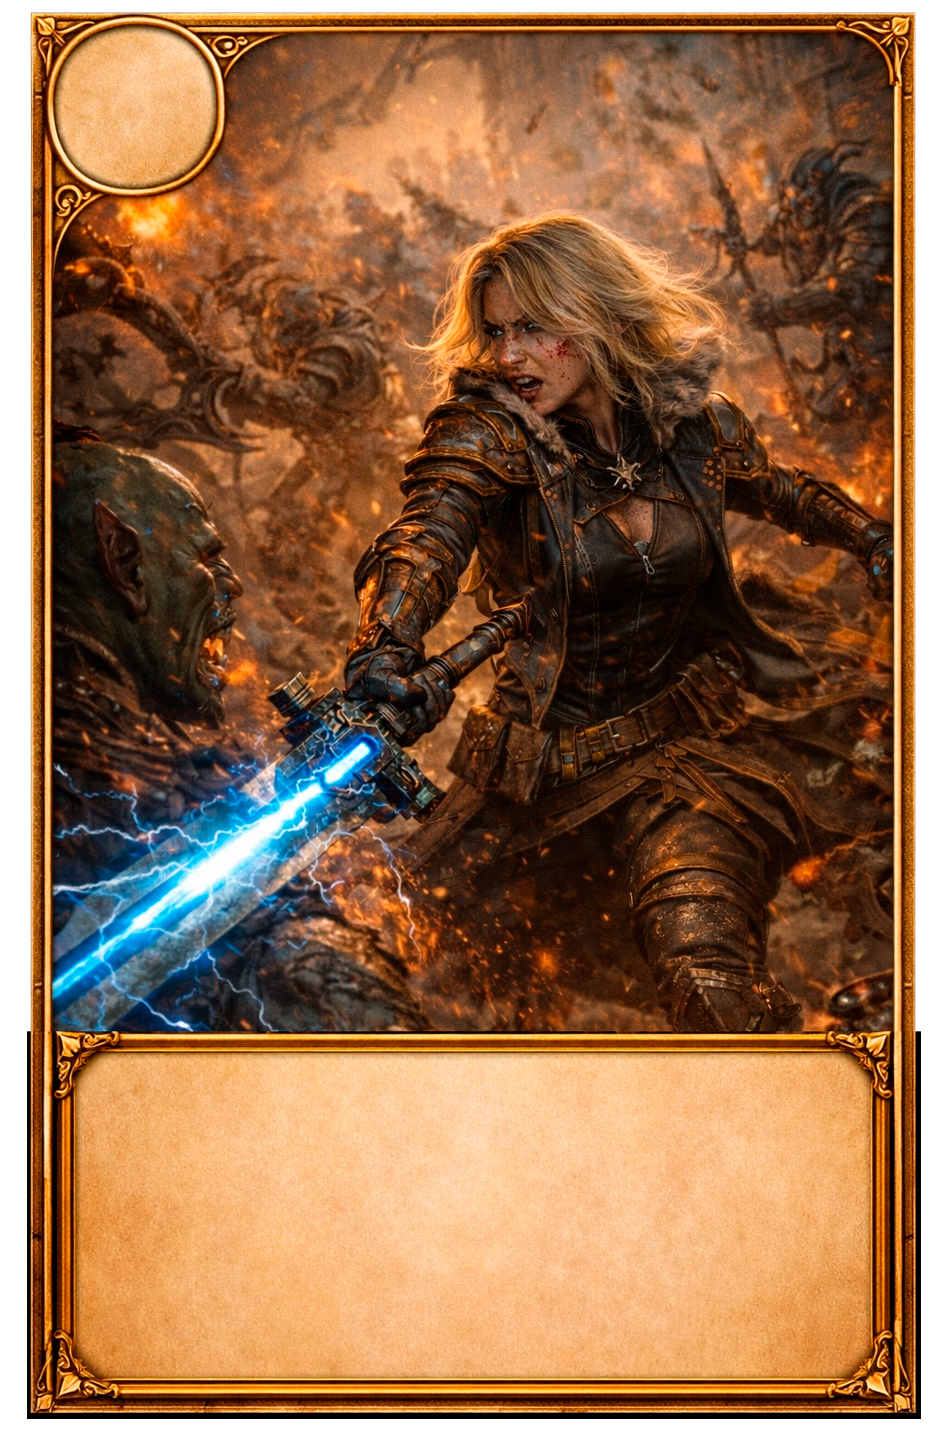
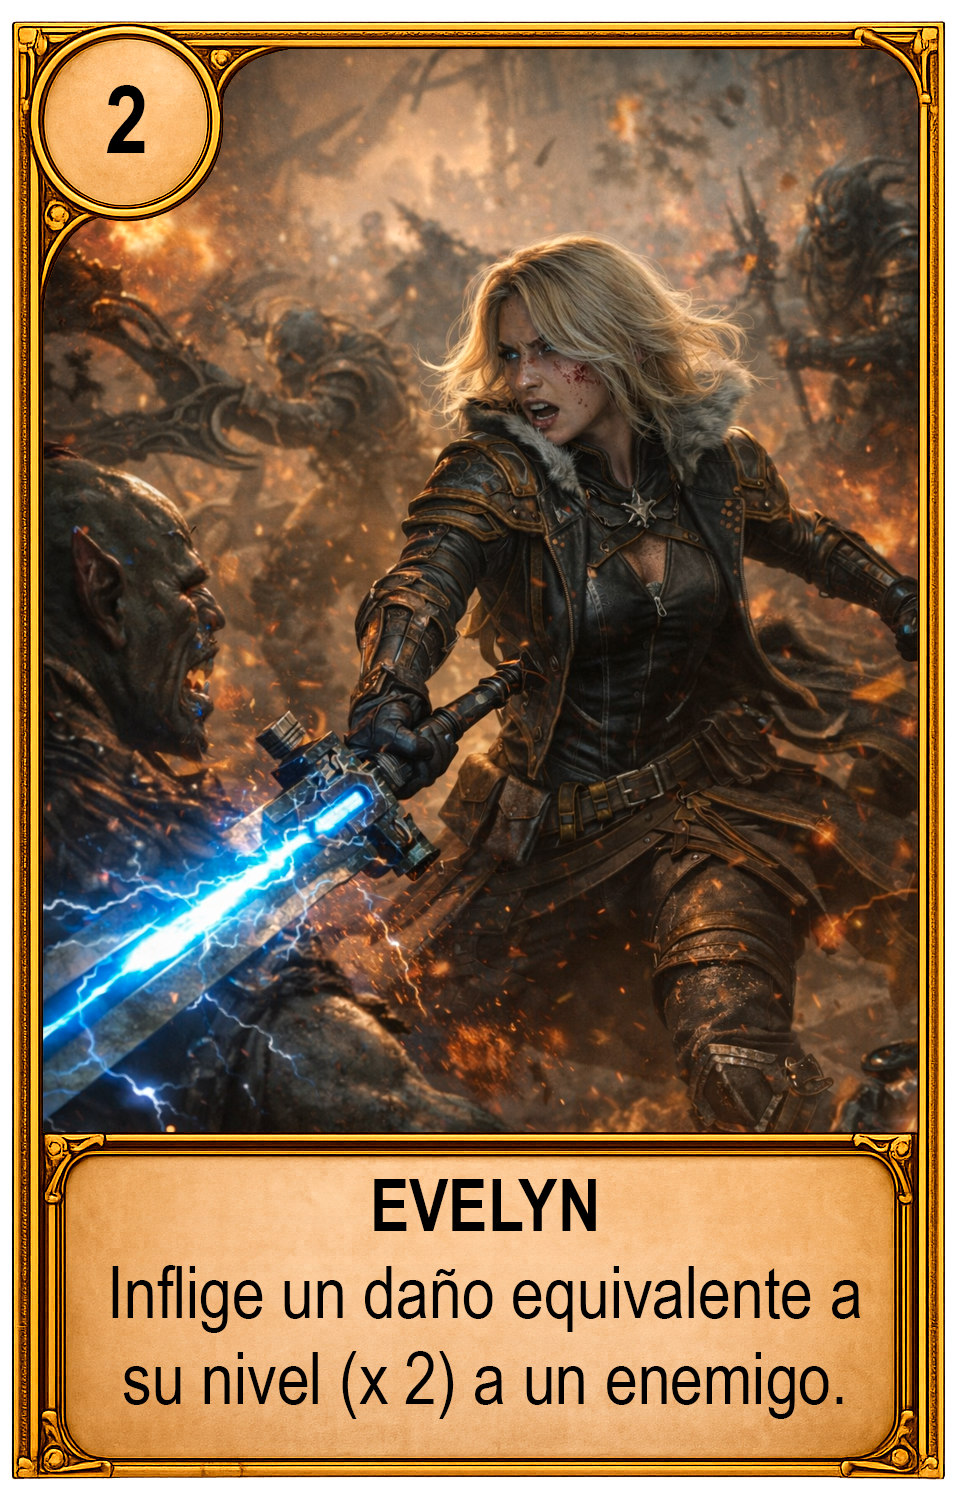
Ajusta habilidades sin objetivo y añade habilidad de Risko

diff --git a/script.js b/script.js
@@ -179,7 +179,7 @@ document.addEventListener("DOMContentLoaded", () => {
     { id: "ab_jane", name: "Jane", img: "cartas/cartajane.PNG", cost: 2, damage: 0, level: 1, abilityName: "Cubriendo la retaguardia", shieldGain: 5 },
     { id: "ab_lisa", name: "Lisa", img: "cartas/cartalisa.PNG", cost: 1, damage: 0, level: 1, abilityName: "Sanadora de batalla", healAmount: 15 },
     { id: "ab_pendergast", name: "Pendergast", img: "cartas/cartapendergast.PNG", cost: 1, damage: 5, level: 1, abilityName: "Orden ofensiva" },
-    { id: "ab_risko", name: "Risko", img: "cartas/cartarisko.PNG", cost: 1, damage: 5, level: 1, abilityName: "Impacto técnico" }
+    { id: "ab_risko", name: "Risko", img: "cartas/cartarisko.PNG", cost: 2, damage: 0, level: 1, abilityName: "Ráfaga de distracción", shieldGain: 5 }
   ];
 
   const REINER_BATTLE_CHARACTER = {
@@ -3875,6 +3875,11 @@ document.addEventListener("DOMContentLoaded", () => {
     return ARCADE_BATTLE_CARD_LIBRARY.find((card) => card.id === cardId) || null;
   }
 
+  function arcadeBattleCardNeedsEnemyTarget(cardDef) {
+    const id = String(cardDef?.id || "");
+    return !(id === "ab_camus" || id === "ab_winchester" || id === "ab_jane" || id === "ab_lisa");
+  }
+
   function createArcadeBattleEnemy(id, name) {
     return {
       id,
@@ -4324,14 +4329,15 @@ document.addEventListener("DOMContentLoaded", () => {
 
   function tryPlayArcadeBattleCardOnEnemy(cardInstanceId, enemyId) {
     if (!arcadeBattleState || arcadeBattleState.phase !== "playing" || arcadeBattleState.enemyTurnResolving) return false;
-    const enemy = getArcadeBattleEnemyById(enemyId);
-    if (!enemy || !enemy.alive || enemy.hp <= 0) return false;
 
     const handIndex = arcadeBattleState.hand.findIndex((card) => card.instanceId === cardInstanceId);
     if (handIndex < 0) return false;
     const handCard = arcadeBattleState.hand[handIndex];
     const cardDef = getArcadeBattleCardDef(handCard.cardId);
     if (!cardDef) return false;
+    const needsEnemyTarget = arcadeBattleCardNeedsEnemyTarget(cardDef);
+    const enemy = needsEnemyTarget ? getArcadeBattleEnemyById(enemyId) : null;
+    if (needsEnemyTarget && (!enemy || !enemy.alive || enemy.hp <= 0)) return false;
 
     if (arcadeBattleState.player.cost < cardDef.cost) {
       setArcadeBattleStatus("No tienes coste suficiente para usar esa carta.");
@@ -4390,6 +4396,22 @@ document.addEventListener("DOMContentLoaded", () => {
         0,
         arcadeBattleState.player.maxHp || ARCADE_BATTLE_PLAYER_MAX_HP
       );
+    } else if (cardDef.id === "ab_risko") {
+      const dealtDamage = cardLevel;
+      if (!enemy) return false;
+      applyDamageToBattleUnit(enemy, dealtDamage);
+      triggerArcadeBattleEnemyHitFx(enemy.id, "damage");
+      if (enemy.hp <= 0) {
+        enemy.hp = 0;
+        enemy.shield = 0;
+        enemy.alive = false;
+      }
+      arcadeBattleState.player.shield = clamp(
+        (arcadeBattleState.player.shield || 0) + baseShieldGain,
+        0,
+        arcadeBattleState.player.maxShield || ARCADE_BATTLE_PLAYER_MAX_SHIELD
+      );
+      triggerArcadeBattlePlayerHitFx("shield");
     } else {
       applyDamageToBattleUnit(enemy, baseDamage);
       triggerArcadeBattleEnemyHitFx(enemy.id, "damage");
@@ -8103,6 +8125,12 @@ document.addEventListener("DOMContentLoaded", () => {
     if (!(cardEl instanceof HTMLElement)) return;
     const instanceId = String(cardEl.dataset.cardInstanceId || "");
     if (!instanceId) return;
+    const handCard = getArcadeBattleHandCardByInstance(instanceId);
+    const cardDef = getArcadeBattleCardDef(handCard?.cardId);
+    if (arcadeBattleSelectedCardInstanceId === instanceId && !arcadeBattleCardNeedsEnemyTarget(cardDef)) {
+      tryPlayArcadeBattleCardOnEnemy(instanceId, "");
+      return;
+    }
     selectArcadeBattleCard(instanceId);
   });
 
@@ -8299,6 +8327,16 @@ document.addEventListener("DOMContentLoaded", () => {
         }
       }
       if (key === "Enter") {
+        if (arcadeBattleSelectedCardInstanceId) {
+          const selectedHand = getArcadeBattleHandCardByInstance(arcadeBattleSelectedCardInstanceId);
+          const selectedCardDef = getArcadeBattleCardDef(selectedHand?.cardId);
+          const needsEnemy = arcadeBattleCardNeedsEnemyTarget(selectedCardDef);
+          if (!needsEnemy && (arcadeBattleKeyboardZone === "cards" || arcadeBattleKeyboardZone === "enemies")) {
+            e.preventDefault();
+            tryPlayArcadeBattleCardOnEnemy(arcadeBattleSelectedCardInstanceId, "");
+            return;
+          }
+        }
         if (arcadeBattleKeyboardZone === "actions") {
           const buttons = getArcadeBattleActionButtons();
           const btn = buttons[arcadeBattleSelectedActionIndex];
